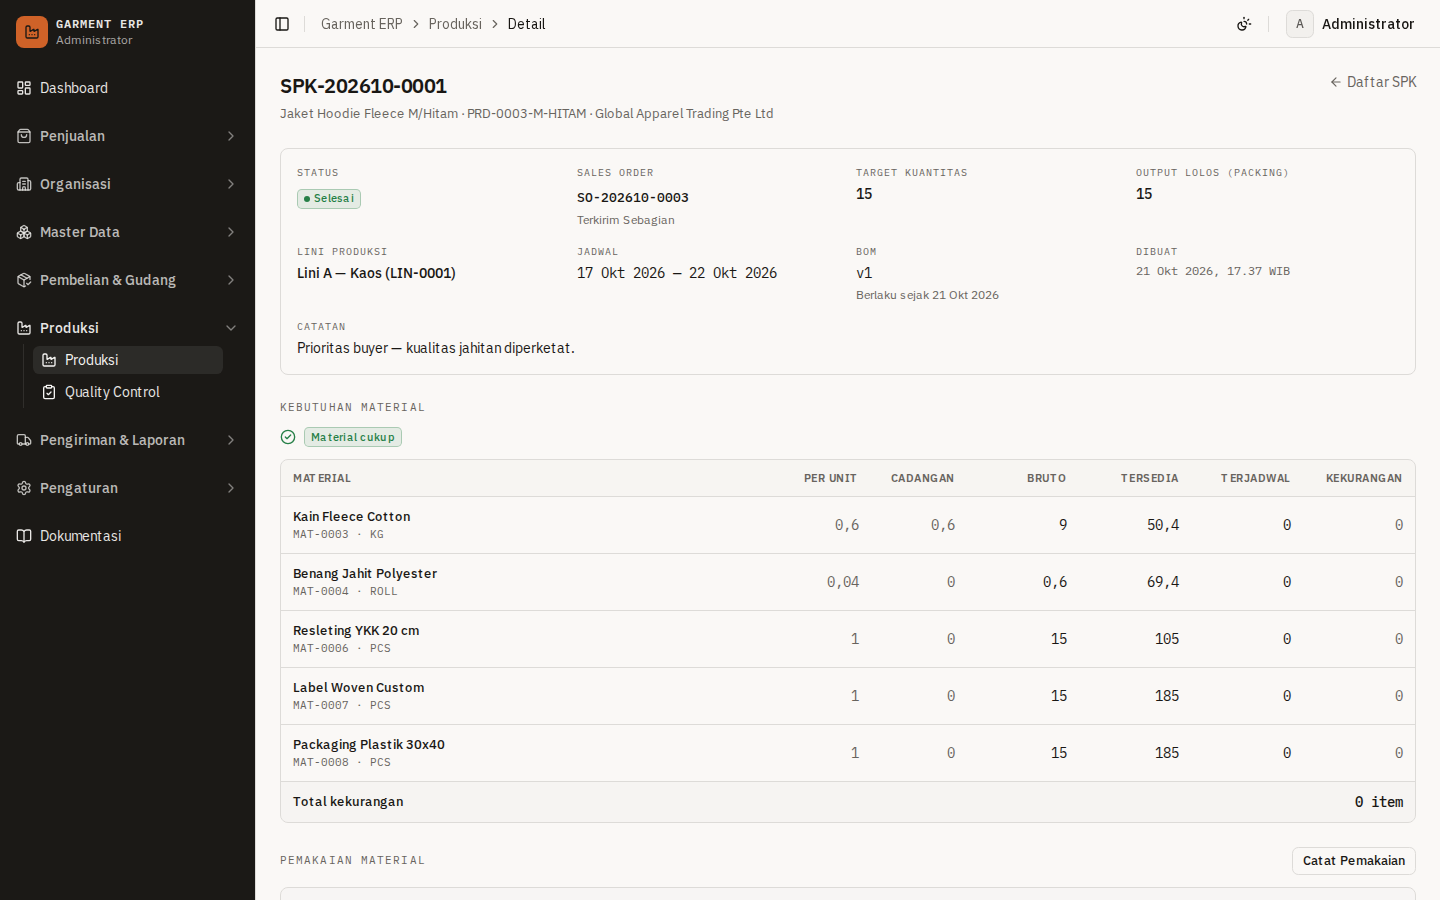
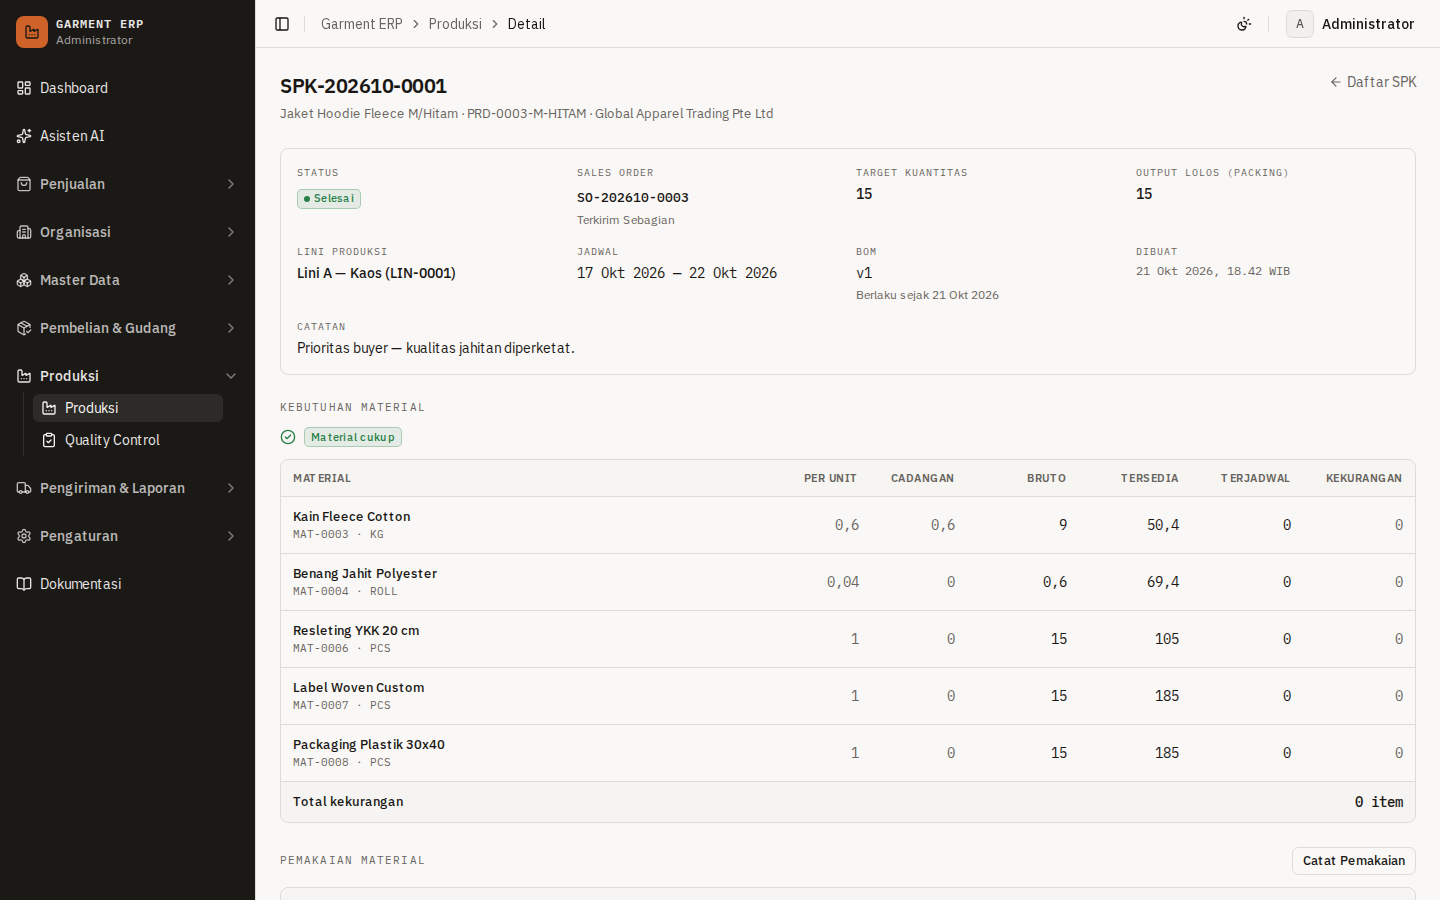
feat: tambahkan halaman Asisten AI
- Tambah menu Asisten AI tepat di bawah Dashboard untuk semua role.\n- Tambah halaman /asisten-ai dengan satu input teks.\n- Tambah cakupan E2E untuk menu dan halaman, serta screenshot baru.

diff --git a/tests/e2e/auth.spec.ts b/tests/e2e/auth.spec.ts
@@ -32,10 +32,22 @@ test.describe("autentikasi", () => {
     await login(page, ADMIN);
     await expect(page.getByText(/Selamat datang/)).toBeVisible();
     const sidebar = sidebarOf(page);
+    await expectSidebarLink(sidebar, "Asisten AI");
     await expectSidebarLink(sidebar, "Buyer");
     await expectSidebarLink(sidebar, "Pengguna");
     await expectSidebarLink(sidebar, "Laporan");
     await expectSidebarLink(sidebar, "Dokumentasi");
+  });
+
+  test("admin membuka Asisten AI dari sidebar", async ({ page }) => {
+    await login(page, ADMIN);
+    const assistant = await revealSidebarLink(sidebarOf(page), "Asisten AI");
+    await assistant.click();
+    await expect(page).toHaveURL(/\/asisten-ai$/);
+    await expect(page.getByRole("heading", { name: "Asisten AI", exact: true })).toBeVisible();
+    await expect(
+      page.getByRole("textbox", { name: "Pertanyaan untuk Asisten AI", exact: true }),
+    ).toBeVisible();
   });
 
   test("admin membuka dokumentasi dari sidebar", async ({ page }) => {

diff --git a/src/components/layout/nav-config.ts b/src/components/layout/nav-config.ts
@@ -21,6 +21,7 @@ import {
   Shirt,
   ShoppingBag,
   ShoppingCart,
+  Sparkles,
   Truck,
   Users,
   UsersRound,
@@ -54,6 +55,11 @@ export const NAV_SECTIONS: readonly NavSection[] = [
     label: "Utama",
     icon: LayoutDashboard,
     items: [{ title: "Dashboard", href: "/dashboard", icon: LayoutDashboard, roles: ALL_ROLES }],
+  },
+  {
+    label: "Asisten AI",
+    icon: Sparkles,
+    items: [{ title: "Asisten AI", href: "/asisten-ai", icon: Sparkles, roles: ALL_ROLES }],
   },
   {
     label: "Penjualan",
@@ -238,6 +244,7 @@ export function visibleSections(roles: readonly RoleCode[]): NavSection[] {
 
 const PATH_LABELS: Record<string, string> = {
   "/dashboard": "Dashboard",
+  "/asisten-ai": "Asisten AI",
   "/buyers": "Buyer",
   "/sales": "Sales Order",
   "/master": "Master Data",

diff --git a/src/app/(dashboard)/asisten-ai/page.tsx b/src/app/(dashboard)/asisten-ai/page.tsx
@@ -1,0 +1,21 @@
+import type { Metadata } from "next";
+import { PageHeader } from "@/components/layout/page-header";
+import { Input } from "@/components/ui/input";
+
+export const metadata: Metadata = { title: "Asisten AI" };
+
+export default function AsistenAiPage() {
+  return (
+    <div className="flex flex-col gap-6">
+      <PageHeader title="Asisten AI" />
+      <Input
+        type="text"
+        name="question"
+        aria-label="Pertanyaan untuk Asisten AI"
+        placeholder="Tanyakan sesuatu kepada Asisten AI..."
+        autoComplete="off"
+        className="h-10 w-full max-w-3xl text-sm"
+      />
+    </div>
+  );
+}

diff --git a/tests/e2e/roles.spec.ts b/tests/e2e/roles.spec.ts
@@ -161,6 +161,7 @@ test.describe("otorisasi per role", () => {
       await expect(page.getByText(/Selamat datang/)).toBeVisible();
       const sidebar = sidebarOf(page);
       await expect(sidebar.getByRole("link", { name: "Dashboard", exact: true })).toBeVisible();
+      await expectSidebarLink(sidebar, "Asisten AI");
 
       for (const menu of roleCase.visible) {
         await expectSidebarLink(sidebar, menu);
